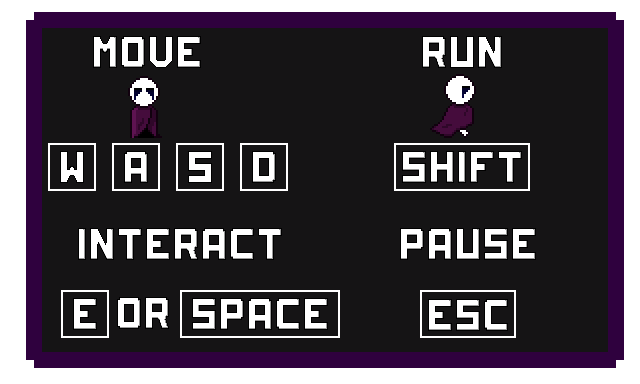
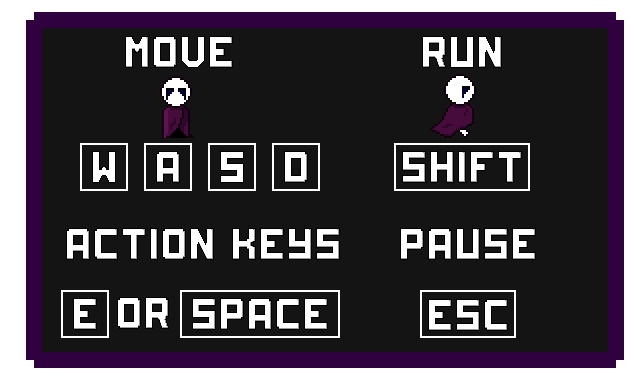
interaction -> action key and IsEnd -> IsDone

Changed region(s): [[0.0625, 0.0938, 0.5, 0.5], [0.0938, 0.5938, 0.5312, 0.6875]]

diff --git a/Assets/Scripts/ExitCheck/ExitCheckController.cs b/Assets/Scripts/ExitCheck/ExitCheckController.cs
@@ -7,14 +7,14 @@ public class ExitCheckController : MonoBehaviour
   private ExitCheckModel model;
   private ExitCheckView view;
   private GameObject door;
-  public IsEnd[] allEndObjects;
+  public IsDone[] allIsDoneObjects;
 
   void Start()
   {
    model = GameObject.FindObjectOfType<ExitCheckModel>();
    view = GameObject.FindObjectOfType<ExitCheckView>();
    door = GameObject.FindGameObjectWithTag("Door");
-   allEndObjects = GameObject.FindObjectsOfType<IsEnd>();
+   allIsDoneObjects = GameObject.FindObjectsOfType<IsDone>();
   }
 
   void Update()
@@ -38,7 +38,7 @@ public class ExitCheckController : MonoBehaviour
    }
 
    model.openExit = true;
-   foreach(IsEnd obj in allEndObjects)
+   foreach(IsDone obj in allIsDoneObjects)
    {
     if(!obj.Done())
     {

diff --git a/Assets/Scripts/Switch/SwitchController.cs b/Assets/Scripts/Switch/SwitchController.cs
@@ -2,7 +2,7 @@ using System.Collections;
 using System.Collections.Generic;
 using UnityEngine;
 
-public class SwitchController : IsEnd
+public class SwitchController : IsDone
 {
   private SwitchModel[] models; 
   private SwitchView view;
@@ -29,7 +29,7 @@ public class SwitchController : IsEnd
     {
       foreach(SwitchModel model in models)
       {
-        if(model.isInRange && interactKeyPressed())
+        if(model.isInRange && actionKeyPressed())
         {
 	        Switch(model);   
         }

diff --git a/Assets/Scripts/Base/BaseController.cs b/Assets/Scripts/Base/BaseController.cs
@@ -6,11 +6,11 @@ using UnityEngine.Rendering.Universal;
 
 public class BaseController : MonoBehaviour
 {
-  private List<KeyCode> interactKeys = new List<KeyCode> {KeyCode.E, KeyCode.Space};
+  private List<KeyCode> actionKeys = new List<KeyCode> {KeyCode.E, KeyCode.Space};
 
-  public bool interactKeyPressed()
+  public bool actionKeyPressed()
   {
-     foreach(KeyCode key in interactKeys)
+     foreach(KeyCode key in actionKeys)
      {
         if(Input.GetKeyDown(key))
         {

diff --git a/Assets/Scripts/Button/ButtonController.cs b/Assets/Scripts/Button/ButtonController.cs
@@ -19,7 +19,7 @@ public class ButtonController : BaseController
         {
           HandleCollision(model);
         }
-        if(model.isInRange && interactKeyPressed())
+        if(model.isInRange && actionKeyPressed())
         {
 	        StartCoroutine(Press(model));   
         }

diff --git a/Assets/Scripts/PositionCheck/PositionCheckController.cs b/Assets/Scripts/PositionCheck/PositionCheckController.cs
@@ -2,7 +2,7 @@ using System.Collections;
 using System.Collections.Generic;
 using UnityEngine;
 
-public class PositionCheckController : IsEnd
+public class PositionCheckController : IsDone
 {
     private PositionCheckModel[] models;
 

diff --git a/Assets/Scripts/IsDone/IsDone.cs b/Assets/Scripts/IsDone/IsDone.cs
@@ -2,7 +2,7 @@ using System.Collections;
 using System.Collections.Generic;
 using UnityEngine;
 
-abstract public class IsEnd : BaseController
+abstract public class IsDone : BaseController
 {
   abstract public bool Done();
 }

diff --git a/Assets/Scripts/Letter/LetterController.cs b/Assets/Scripts/Letter/LetterController.cs
@@ -3,7 +3,7 @@ using System.Collections;
 using System.Collections.Generic;
 using UnityEngine;
 
-public class LetterController : IsEnd
+public class LetterController : IsDone
 {
   private LetterView view;
 
